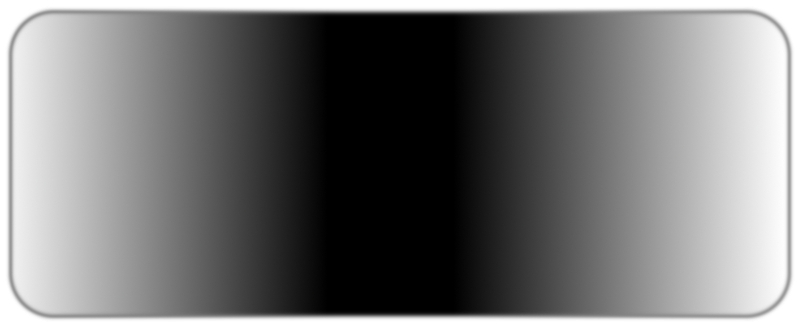
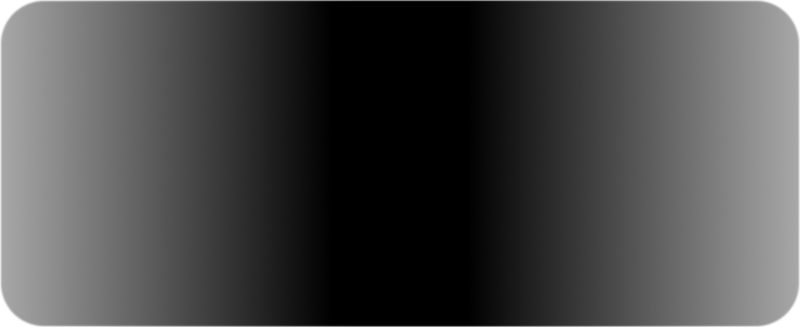
carousel update 2

diff --git a/source/view/bootstrap/css/carousel.css b/source/view/bootstrap/css/carousel.css
@@ -6,9 +6,10 @@
 .carousel .container {
   position: relative;
   z-index: 9;
-  background-image:url('/source/view/bootstrap/img/tthe_carousel_hard.jpg');
-  min-width: 100%;
-  min-height: 100%;
+  background-image:url('/source/view/bootstrap/img/tthe_carousel.jpg');
+  background-repeat:no-repeat;
+  background-attachment:fixed;
+  background-position: inherit; 
 }
 
 .carousel-control {
@@ -17,7 +18,7 @@
   margin-top: 0;
   font-size: 120px;
   text-shadow: 0 1px 1px rgba(0,0,0,.4);
-  background-color: #t;
+  background-color: #transparent;
   border: 0;
   z-index: 10;
 }
